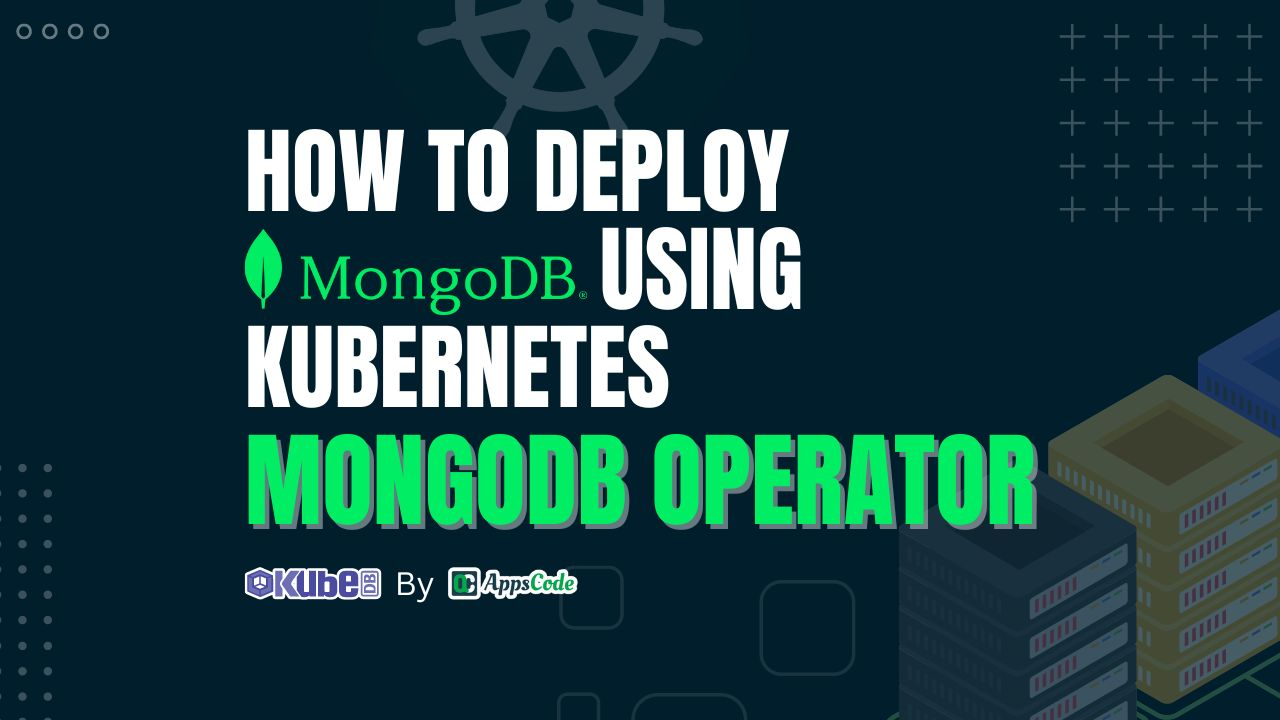
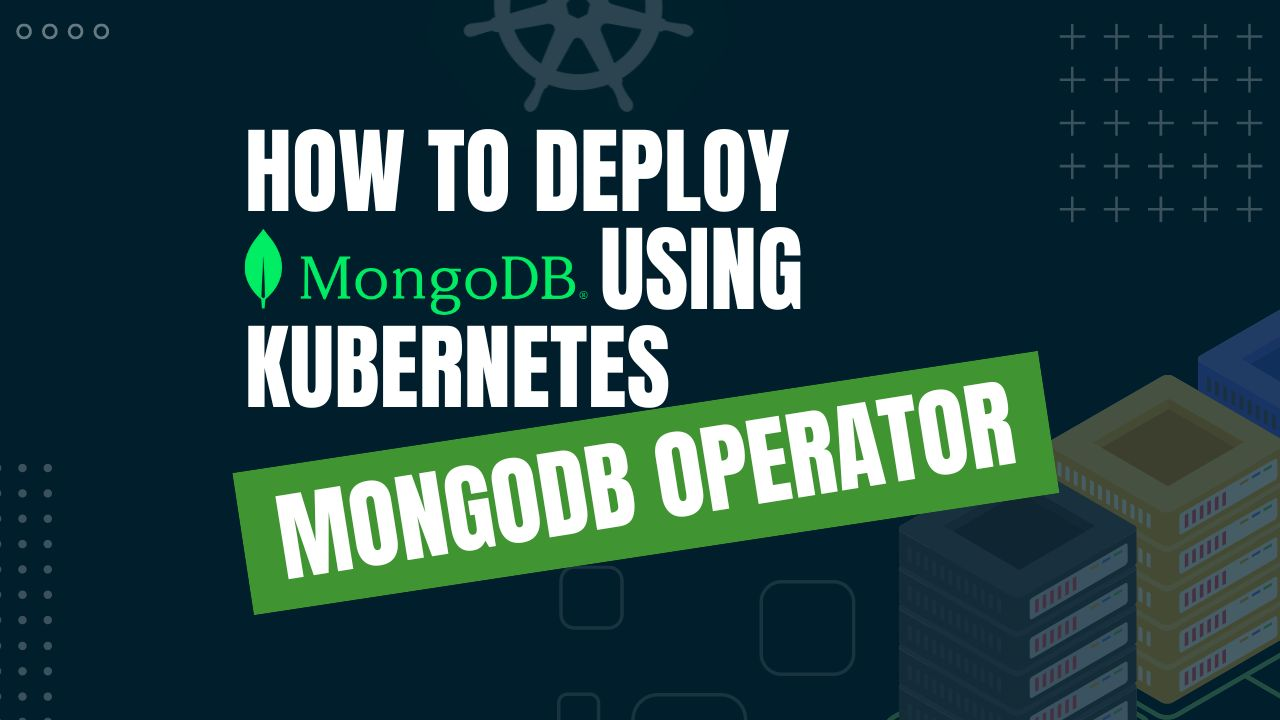
Update hero image and CSS

Changed region(s): [[0.1562, 0.4889, 0.8438, 0.8556], [0.3125, 0.0, 0.5625, 0.1833], [0.4062, 0.3667, 0.4375, 0.3972]]

diff --git a/static/assets/sass/layouts/_articles.scss b/static/assets/sass/layouts/_articles.scss
@@ -70,7 +70,7 @@
     padding-bottom: 32px;
     h1 {
       font-size: 48px;
-      max-width: 90%;
+      max-width: 100%%;
     }
     p {
       font-size: 16px;

diff --git a/content/articles/improve-database-management-via-kubernetes-proxysql-operator/index.md b/content/articles/improve-database-management-via-kubernetes-proxysql-operator/index.md
@@ -26,7 +26,7 @@ Additionally, ProxySQL provides query caching capabilities, which can significan
 
 We have to set up the environment to deploy ProxySQL on Kubernetes using a Kubernetes ProxySQL operator. You requires to have a running Kubernetes cluster and a basic understanding of ProxySQL. Here we are using [Kind](https://kubernetes.io/docs/tasks/tools/#kind) to create our Kubernetes cluster. Additionally, you should install [Helm](https://helm.sh/docs/intro/install/) to your Kubernetes cluster.
 
-In this tutorial, We will use the Kubernetes ProxySQL operator [KubeDB](https://kubedb.com/) to deploy ProxySQL on Kubernetes. First, We must install KubeDB in our Kubernetes cluster. We requires a license to setup KubeDB in our Kubernetes cluster. We can obtain a free enterprise license via the [Appscode License Server](https://license-issuer.appscode.com/). To obtain the license we must provide our Kubernetes cluster ID. Run the following command to get the cluster ID.get
+In this tutorial, We will use the Kubernetes ProxySQL operator [KubeDB](https://kubedb.com/) to deploy ProxySQL on Kubernetes. First, We must install KubeDB in our Kubernetes cluster. We requires a license to setup KubeDB in our Kubernetes cluster. We can obtain a free enterprise license via the [Appscode License Server](https://license-issuer.appscode.com/). To obtain the license we must provide our Kubernetes cluster ID. Run the following command to get the cluster ID.
 
 ```bash
 $ kubectl get ns kube-system -o jsonpath='{.metadata.uid}'
@@ -110,7 +110,7 @@ mysql.kubedb.com/mysql-server created
 Let’s check if the server is ready to use,
 
 ```bash
-$ kubectl get mysql -n demo mysql-server
+$ kubectl get mysql -n proxydemo mysql-server
 NAME           VERSION   STATUS   AGE
 mysql-server   8.0.32    Ready    3m21s
 ```
@@ -206,7 +206,7 @@ $ kubectl get secrets -n proxydemo mysql-server-auth -o jsonpath='{.data.passwor
 Now, we will connect to the MySQL database through ProxySQL pod using the required credentials and insert some sample data,
 
 ```bash
-$ kubectl exec -it proxy-server-0 -n demo -- bash
+$ kubectl exec -it proxy-server-0 -n proxydemo -- bash
 root@proxy-server-0:/# mysql --user=root --password='3i7ig3RQXKD!2ksc' --host 127.0.0.1 --port=6033
 
 Type 'help;' or '\h' for help. Type '\c' to clear the current input statement.

diff --git a/content/articles/how-to-deploy-mongodb-using-kubernetes-mongodb-operator/index.md b/content/articles/how-to-deploy-mongodb-using-kubernetes-mongodb-operator/index.md
@@ -34,7 +34,7 @@ Deploying MongoDB in Kubernetes offers a host of advantages for modern database 
 ### Pre-requisites
 We have to set up the environment to deploy MongoDB on Kubernetes using a Kubernetes MongoDB operator. A running Kubernetes cluster and a fundamental understanding of MongoDB queries are required to conduct this tutorial. Here we are using [Kind](https://kubernetes.io/docs/tasks/tools/#kind) to create our Kubernetes cluster. Additionally, you should install [Helm](https://helm.sh/docs/intro/install/) to your Kubernetes cluster.
 
-In this tutorial, We will use the Kubernetes ProxySQL operator [KubeDB](https://kubedb.com/) to deploy ProxySQL on Kubernetes. First, We must install KubeDB in our Kubernetes cluster. We requires a license to setup KubeDB in our Kubernetes cluster. We can obtain a free enterprise license via the [Appscode License Server](https://license-issuer.appscode.com/). To obtain the license we must provide our Kubernetes cluster ID. Run the following command to get the cluster ID.get
+In this tutorial, We will use the Kubernetes ProxySQL operator [KubeDB](https://kubedb.com/) to deploy ProxySQL on Kubernetes. First, We must install KubeDB in our Kubernetes cluster. We requires a license to setup KubeDB in our Kubernetes cluster. We can obtain a free enterprise license via the [Appscode License Server](https://license-issuer.appscode.com/). To obtain the license we must provide our Kubernetes cluster ID. Run the following command to get the cluster ID.
 
  
 ```bash
